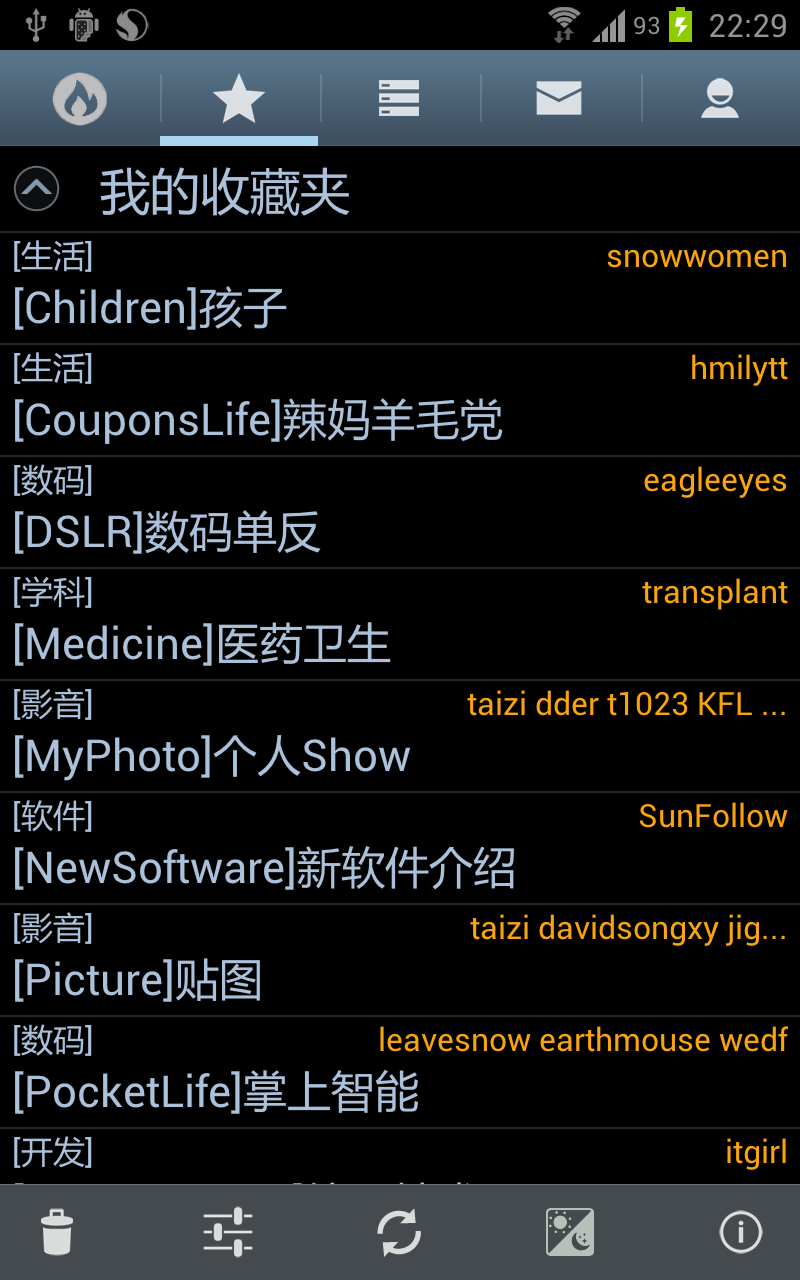
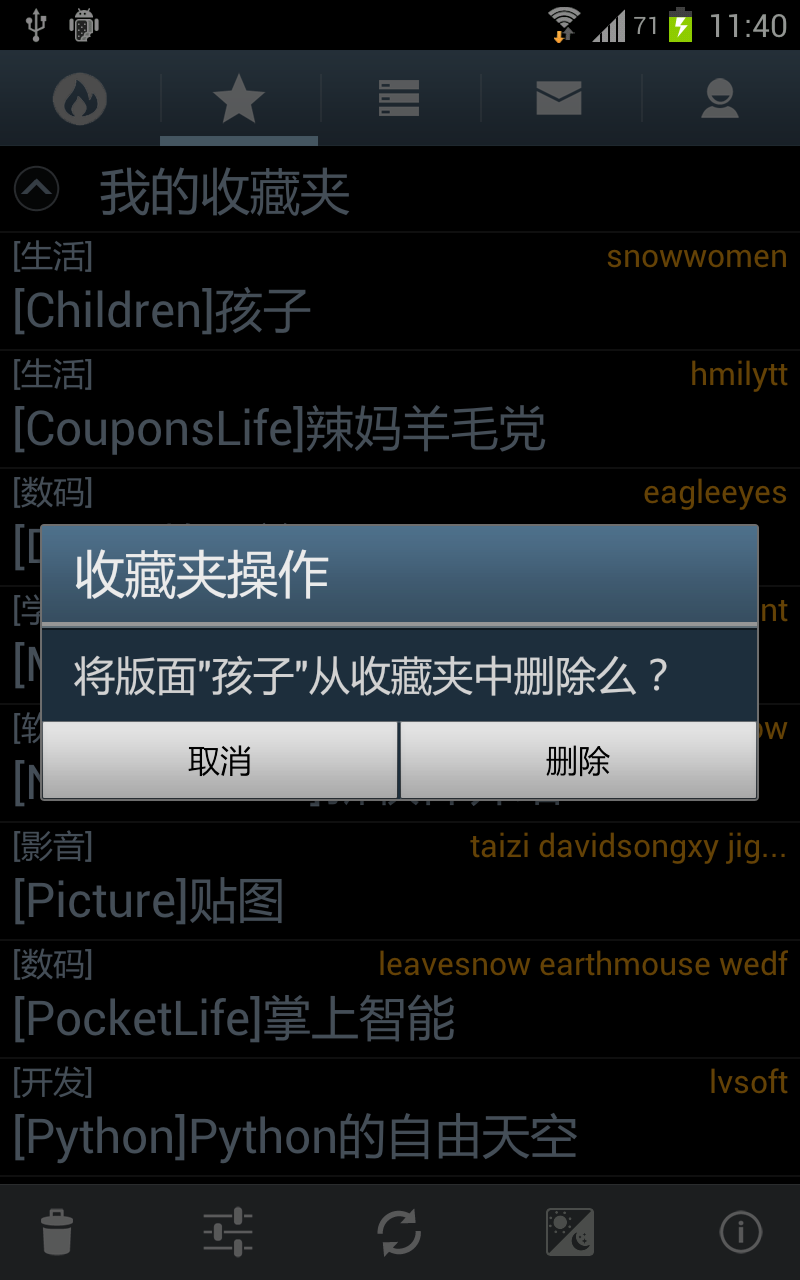
add explanation for favorite operation

diff --git a/help.html b/help.html
@@ -43,14 +43,17 @@
 <a data-gallery="gallery" href="screenshots/exit.png" title="退出程序：在主界面连续按两次返回键">
   <img src="screenshots/exit.png" class="thumb"></a>
 
-<a data-gallery="gallery" href="screenshots/favorite.png" title="我的收藏夹：下面有最近访问版面列表。如有版面不全请按'刷新'强制更新。音量键滚屏">
+<a data-gallery="gallery" href="screenshots/favorite.png" title="我的收藏夹：下面有最近访问版面列表;如有版面不全请按'刷新'强制更新;音量键滚屏;长按版面可从收藏夹中删除">
   <img src="screenshots/favorite.png" class="thumb"></a>
 
-<a data-gallery="gallery" href="screenshots/category.png" title="所有版面列表：输入版面中英文，可以自动提示补全。如有版面不全请按'刷新'强制更新。音量键滚屏">
+<a data-gallery="gallery" href="screenshots/category.png" title="所有版面列表：输入版面中英文，可以自动提示补全;如有版面不全请按'刷新'强制更新;音量键滚屏">
   <img src="screenshots/category.png" class="thumb"></a>
 
 <a data-gallery="gallery" href="screenshots/subject_list.png" title="文章列表：向下拖动列表可刷新; 图标分别为：写文章、切换同主题/普通模式、切换置底、搜索；按菜单键可有更多选项">
   <img src="screenshots/subject_list.png" class="thumb"></a>
+
+<a data-gallery="gallery" href="screenshots/subject_list_menu.png" title="文章列表：菜单选项; 可将版面加入收藏夹">
+  <img src="screenshots/subject_list_menu.png" class="thumb"></a>
 
 <a data-gallery="gallery" href="screenshots/search.png" title="文章列表：搜索帖子；按放大镜或按钮开始搜索">
   <img src="screenshots/search.png" class="thumb"></a>
